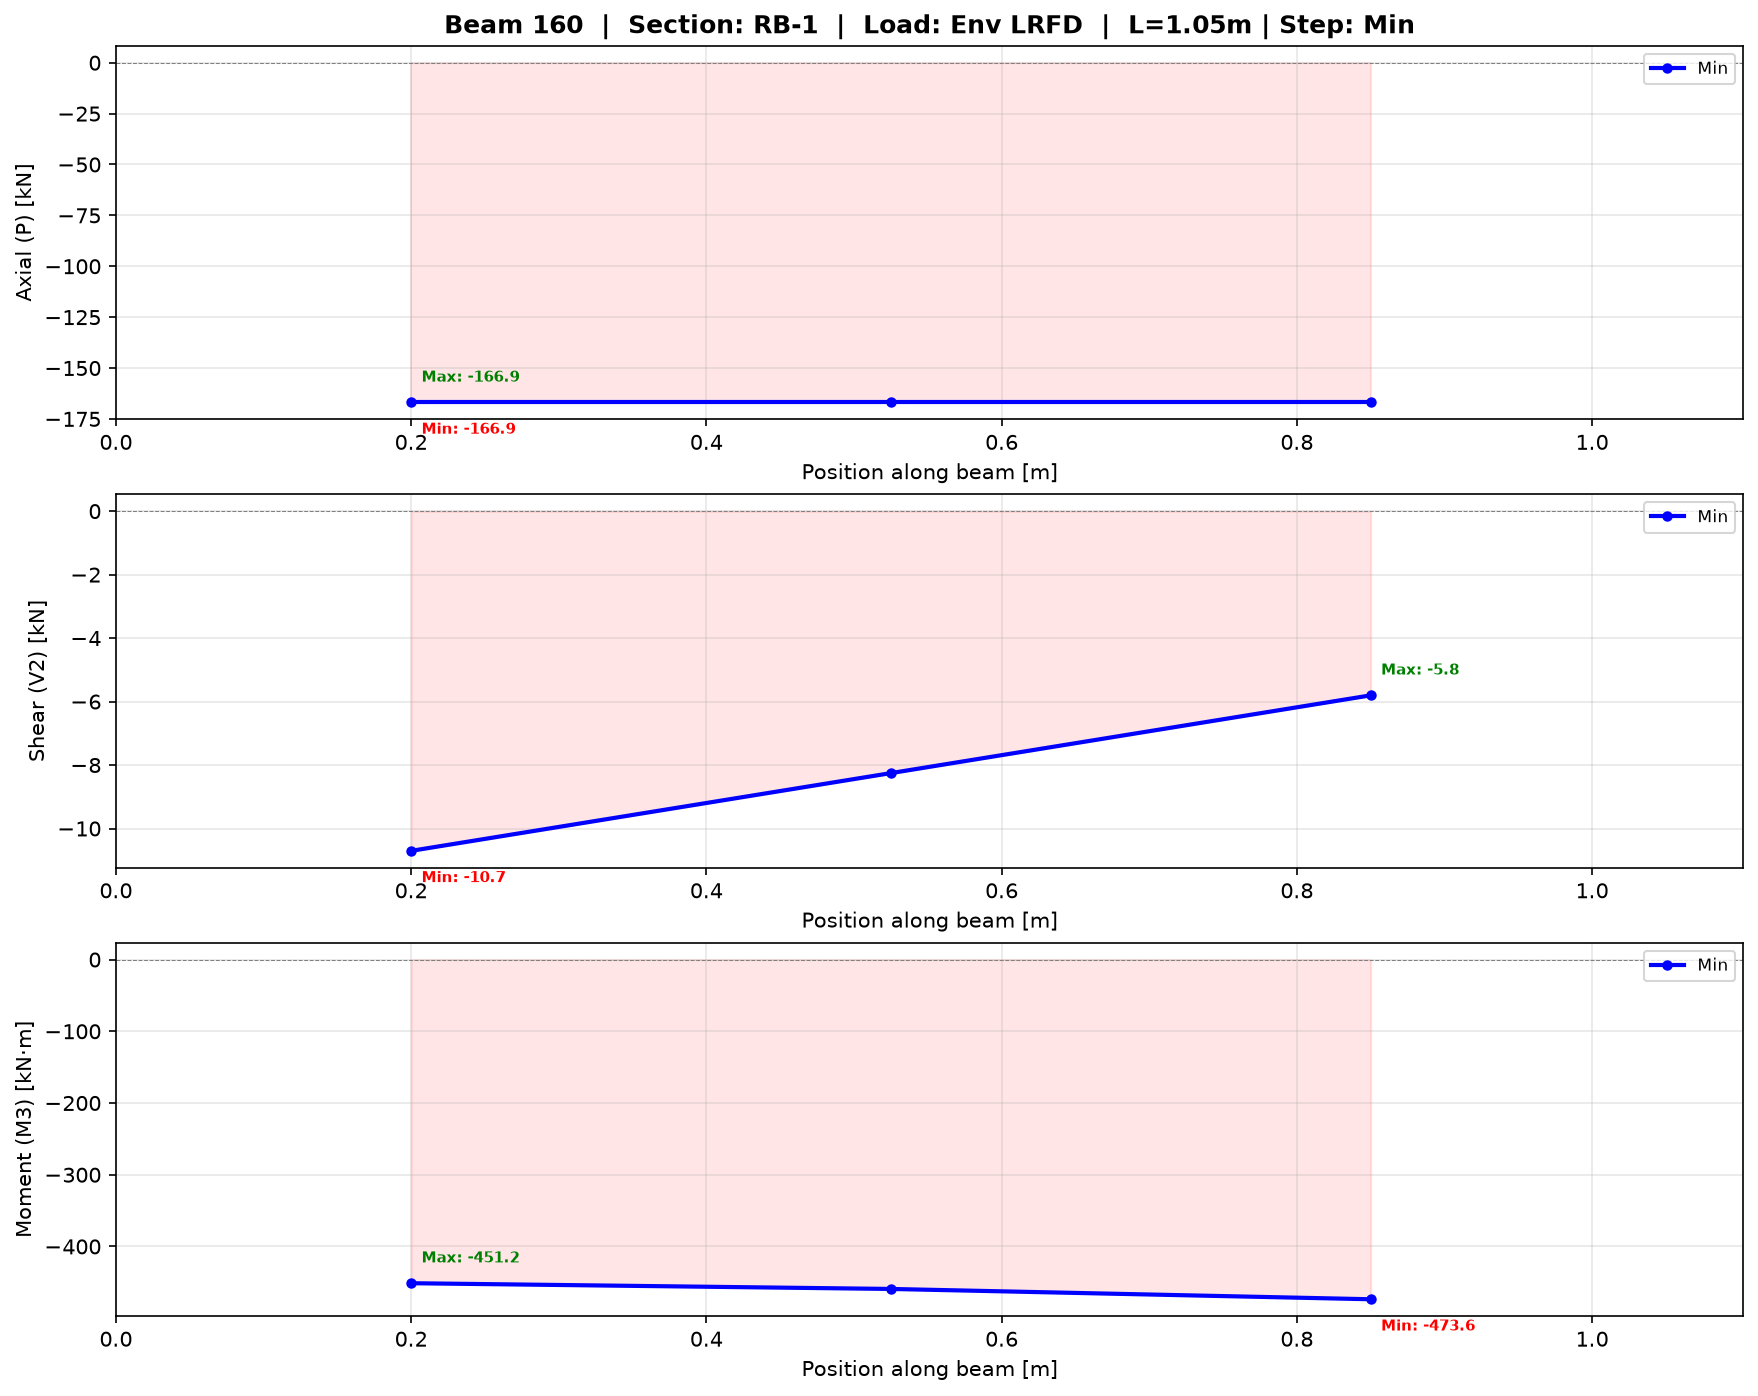
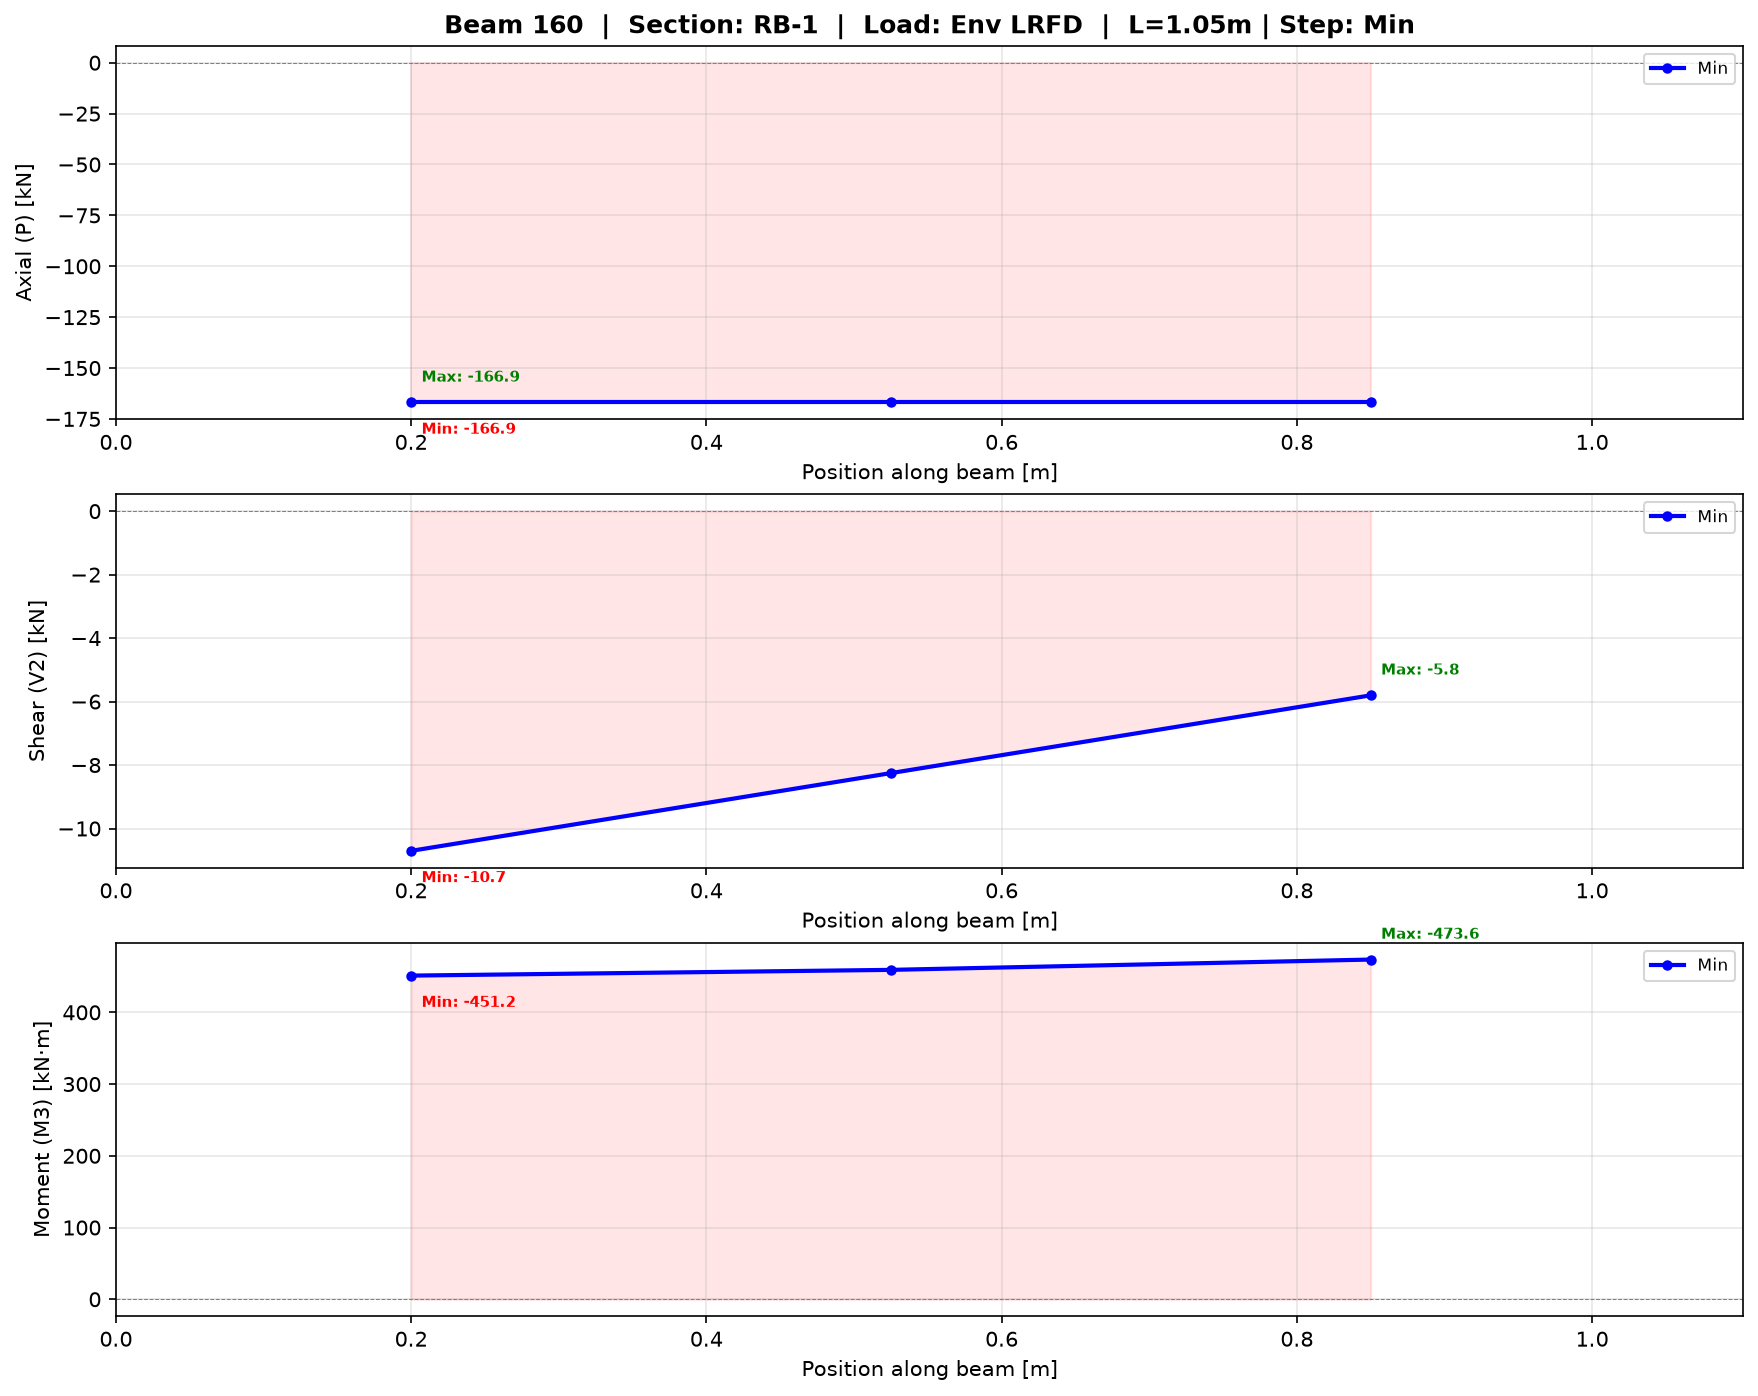
fix: invert moment diagram convention
Positive moment (sagging, tension at bottom) now plots BELOW
the zero line; negative moment (hogging, tension at top) plots
ABOVE. Fill colors swapped for M3 so red = sagging (below),
green = hogging (above). Annotations show original signed values.

diff --git a/beam_viewer.py b/beam_viewer.py
@@ -176,6 +176,18 @@ def _unit_label(col: str) -> str:
     return ""
 
 
+def _diagram_vals(vals: np.ndarray, col: str) -> np.ndarray:
+    """Return display values and fill signs for the given column.
+
+    For moment diagrams (M2, M3), values are **negated** so that
+    positive moment (sagging, tension at bottom) plots BELOW the
+    zero line, matching structural engineering convention.
+    """
+    if col in ("M2", "M3"):
+        return -vals
+    return vals
+
+
 def plot_beam_diagrams(
     beam_data: pd.DataFrame,
     frame: int | str,
@@ -193,6 +205,9 @@ def plot_beam_diagrams(
         ``"Max"`` or ``"Min"`` to show only that envelope step, or
         ``None`` to show all steps overlaid.  For non-envelope loads
         this is ignored and a single blue line is drawn.
+
+    Moment diagrams (M3) are inverted so positive moment (sagging) plots
+    BELOW the zero line, matching structural engineering convention.
     """
     groups = get_force_groups(beam_data)
 
@@ -209,26 +224,31 @@ def plot_beam_diagrams(
         ax.clear()
         label = _unit_label(col)
         col_name = {"P": "Axial (P)", "V2": "Shear (V2)", "M3": "Moment (M3)"}.get(col, col)
+        # Moment diagrams: positive plots below, so swap fill colors too
+        _pos_fill = "red" if col in ("M2", "M3") else "green"
+        _neg_fill = "green" if col in ("M2", "M3") else "red"
 
         all_v = np.array([])
         all_s = np.array([])
+
+        def _make_vals(grp):
+            raw = np.array([_scale_force(v, col) for v in grp[col].values])
+            return _diagram_vals(raw, col)
 
         if is_envelope and step_type:
             # Single step: plot only the requested step
             if step_type in groups:
                 grp = groups[step_type]
                 stations_m = grp["station"].values / 1000.0
-                vals = np.array([_scale_force(v, col) for v in grp[col].values])
+                vals = _make_vals(grp)
                 all_s, all_v = stations_m, vals
                 ax.plot(stations_m, vals, color="blue", linewidth=2.0,
                         marker="o", markersize=4, label=step_type)
-                ax.fill_between(
-                    stations_m, vals, 0,
-                    where=(vals >= 0), color="green", alpha=0.1,
+                ax.fill_between(stations_m, vals, 0,
+                    where=(vals >= 0), color=_pos_fill, alpha=0.1,
                 )
-                ax.fill_between(
-                    stations_m, vals, 0,
-                    where=(vals < 0), color="red", alpha=0.1,
+                ax.fill_between(stations_m, vals, 0,
+                    where=(vals < 0), color=_neg_fill, alpha=0.1,
                 )
                 ax.legend(loc="upper right", fontsize=8)
         elif is_envelope:
@@ -242,20 +262,18 @@ def plot_beam_diagrams(
                     continue
                 grp = groups[step_key]
                 stations_m = grp["station"].values / 1000.0
-                vals = np.array([_scale_force(v, col) for v in grp[col].values])
+                vals = _make_vals(grp)
                 if len(vals) == 0:
                     continue
                 all_s = np.concatenate([all_s, stations_m])
                 all_v = np.concatenate([all_v, vals])
                 ax.plot(stations_m, vals, color=color, linewidth=2.0,
                         marker="o", markersize=4, label=legend_label)
-                ax.fill_between(
-                    stations_m, vals, 0,
-                    where=(vals >= 0), color="green", alpha=0.06,
+                ax.fill_between(stations_m, vals, 0,
+                    where=(vals >= 0), color=_pos_fill, alpha=0.06,
                 )
-                ax.fill_between(
-                    stations_m, vals, 0,
-                    where=(vals < 0), color="red", alpha=0.06,
+                ax.fill_between(stations_m, vals, 0,
+                    where=(vals < 0), color=_neg_fill, alpha=0.06,
                 )
             if any(k in groups for k in ("Max", "Min")):
                 ax.legend(loc="upper right", fontsize=8)
@@ -263,17 +281,15 @@ def plot_beam_diagrams(
             # Single step: one clean blue line
             grp = next(iter(groups.values()))
             stations_m = grp["station"].values / 1000.0
-            vals = np.array([_scale_force(v, col) for v in grp[col].values])
+            vals = _make_vals(grp)
             all_s, all_v = stations_m, vals
             ax.plot(stations_m, vals, color="blue", linewidth=2.0,
                     marker="o", markersize=4)
-            ax.fill_between(
-                stations_m, vals, 0,
-                where=(vals >= 0), color="green", alpha=0.1,
+            ax.fill_between(stations_m, vals, 0,
+                where=(vals >= 0), color=_pos_fill, alpha=0.1,
             )
-            ax.fill_between(
-                stations_m, vals, 0,
-                where=(vals < 0), color="red", alpha=0.1,
+            ax.fill_between(stations_m, vals, 0,
+                where=(vals < 0), color=_neg_fill, alpha=0.1,
             )
 
         # Zero line
@@ -283,18 +299,22 @@ def plot_beam_diagrams(
         ax.set_xlabel("Position along beam [m]", fontsize=10)
         ax.grid(True, alpha=0.3)
 
-        # Annotate global max/min
+        # Annotate global max/min (undo diagram inversion so values show
+        # the original signed moment, not the negated plot coordinate)
         if len(all_v) > 0:
             max_idx = np.argmax(all_v)
             min_idx = np.argmin(all_v)
+            # Reverse negation for annotation display values
+            _ann_max = _diagram_vals(all_v[max_idx:max_idx+1], col)[0]
+            _ann_min = _diagram_vals(all_v[min_idx:min_idx+1], col)[0]
             ax.annotate(
-                f"Max: {all_v[max_idx]:.1f}",
+                f"Max: {_ann_max:.1f}",
                 xy=(all_s[max_idx], all_v[max_idx]),
                 xytext=(5, 10), textcoords="offset points",
                 fontsize=7, color="green", fontweight="bold",
             )
             ax.annotate(
-                f"Min: {all_v[min_idx]:.1f}",
+                f"Min: {_ann_min:.1f}",
                 xy=(all_s[min_idx], all_v[min_idx]),
                 xytext=(5, -15), textcoords="offset points",
                 fontsize=7, color="red", fontweight="bold",
